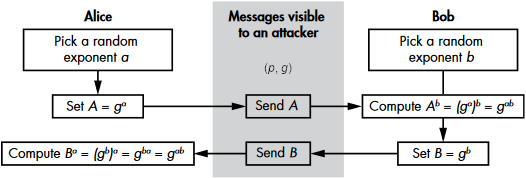
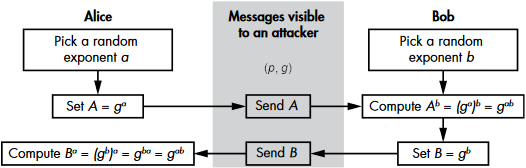
z09

diff --git a/NG/DX/11.MD b/NG/DX/11.MD
@@ -7,9 +7,9 @@
 
 Rozhodnutelnost hraje roli u algoritmů (turingových strojů), které řeší problémy typu Ano/Ne.
 
-Problém typu A/N je __totálně__ rozhodnutelný, pokud existuje takový TS, který pro libovolný vstup vždy zastaví a vydá správnou odpověď (_Ano_ nebo _Ne_).
+Problém typu Ano/Ne je __totálně__ rozhodnutelný, pokud existuje takový TS, který pro libovolný vstup vždy zastaví a vydá správnou odpověď (_Ano_ nebo _Ne_).
 
-Problém typu A/N je __parciálně__ rozhodnutelný, pokud existuje takový TS, který pro vstup s odpovědí _Ano_ zastaví a vydá patřičnou odpověď a pro vstup s odpovědí _Ne_ buď zastaví a vydá patřičnou odpověď, nebo nikdy neukončí svojí činnost.
+Problém typu Ano/Ne je __parciálně__ rozhodnutelný, pokud existuje takový TS, který pro vstup s odpovědí _Ano_ zastaví a vydá patřičnou odpověď a pro vstup s odpovědí _Ne_ buď zastaví a vydá patřičnou odpověď, nebo nikdy neukončí svojí činnost.
 
 <table><tr><td>Rozhodnutelnost\Odpověď</td><th>Ano</th><th>Ne</th></tr><tr><th>Totální</th><td><i>přijetí</i></td><td><i>zamítnutí</i></td></tr><tr><th>Parciální</th><td><i>přijetí</i></td><td><i>zamítnutí</i>&ensp;∨&ensp;<i>zacyklení</i></td></tr></table>
 
@@ -22,8 +22,8 @@ Poznámka: To, že je problém algoritmicky nerozhodnutelný, nemusí nutně zna
   * 𝑀 pro 𝑤 zastaví ⇒ 𝐴 přejde do _přijetí_
   * 𝑀 pro 𝑤 nezastaví ⇒ 𝐴 přejde buď do _zamítnutí_, nebo do _zacyklení_
 * Tvrzení 2: __Neexistuje__ takový 𝐴, který splňuje:
-  * 𝑀 pro 𝑤 zastaví ⇒ 𝐴 přejde buď do _zamítnutí_, nebo do _zacyklení_
   * 𝑀 pro 𝑤 nezastaví ⇒ 𝐴 přejde do _přijetí_
+  * 𝑀 pro 𝑤 zastaví ⇒ 𝐴 přejde buď do _zamítnutí_, nebo do _zacyklení_
 * Z tohoto pohledu je tedy problém zastavení TS parciálně rozhodnutelný a problém <b>ne</b>zastavení TS není ani parciálně rozhodnutelný.
 
 `{ Všechny problémy { Parciálně rozhodnutelné problémy { Totálně rozhodnutelné problémy } } }`

diff --git a/NG/DX/10.MD b/NG/DX/10.MD
@@ -25,7 +25,7 @@ Podmínkou kroku je, že alespoň jedna z akcí 2./3./4. musí být provedena.
 Počáteční stav TS:
 
 * Na pásce je vstupní slovo – „data pro výpočet“
-* Před a za vstupním slovem není nic – prázdná páska
+* Před a za vstupním slovem není nic – prázdná páska, prazdná políčka jsou reprezentována symbolem „□“
 * Hlava je na začátku slova
 * Automat je v počátečním stavu
 
@@ -48,7 +48,7 @@ Poté následují zmíněné kroky a ve finále konec činnosti TS:
 * TS = (𝑄, Σ, Γ, _δ_, 𝑞₀, 𝐹)
 * 𝑄 je neprázdná množina stavů
 * Σ je neprázdná vstupní abeceda
-* Γ je pásková abeceda, kdy Σ ⊂ Γ – pásková abeceda k té vstupní přidá minimálně prázdný symbol „□“
+* Γ je pásková abeceda, kdy Σ ⊂ Γ – pásková abeceda k té vstupní přidá minimálně prázdný symbol □
 * _δ_ je přechodová funkce (𝑄 ∖ 𝐹) × Γ → 𝑄 × Γ × {-1, 0, +1}
 * 𝑞₀ ∈ 𝑄 je počáteční stav
 * 𝐹 ⊂ 𝑄 je množina koncových stavů
@@ -75,11 +75,11 @@ Z hlediska výpočetní síly nepřináší v podstatě nic nového:
 * S více páskami (vstup, práce, výstup)
   * Složité instrukce
   * Lze simulovat volbou páskové abecedy, mohou to být klidně uspořádané trojice
-* NTS, který je ale převoditelný na stejně silný DTS
+* Nedeterministický TS, který je ale převoditelný na stejně silný deterministický TS
 
 #### „Univerzální“ TS
 
-* „Univerzální“ TS simuluje činnost libovolného TS
+* Univerzální TS simuluje činnost libovolného TS
 * Dostane slovo 𝑀𝑤 a simuluje činnost stroje 𝑀 pro slovo 𝑤
 * (𝑄, _δ_, 𝑞₀, 𝐹 dokážeme nějak zapsat, tedy i zakódovat v abecedě Σ)
 

diff --git a/NG/DX/09.MD b/NG/DX/09.MD
@@ -30,14 +30,14 @@ Konečný stroj se zásobníky značíme KSZ<sub>𝑛</sub>, kde 𝑛 je počet 
   * Přečíst vstupní symbol na aktuální pozici čtecí hlavy
   * Posunout čtecí hlavu na následující vstupní symbol
 * U zásobníků lze během výpočtu:
-  * Přidat libovolný symbol ze vstupní abecedy na vrchol zásobníku
+  * Přidat libovolný symbol na vrchol zásobníku
   * Přečíst symbol na vrcholu zásobníku
   * Odebrat symbol z vrcholu zásobníku
 * Výpočet je větven podle hodnot na vstupu a vrcholech zásobníků, dokud nedojde do některého ze stavů přijetí či zamítnutí
 
 ### Postův stroj (PS)
 
-Postův stroj popsal Emil Leon Post nezávisle na Alanu Turingovi. Postův stroj obsahuje obousměrně nekonečnou pásku s políčky `...,-2,-1,0,1,2,...`, kde jedno je označeno jako startovní. Každé políčko na pásce je buď prázdné, nebo označené. Stav políček (konečný výčet označených políček) znamená na začátku výpočtu vstupní data a na konci výpočtu výsledek. S páskou pracuje čtecí-zapisovací hlava, která může v každém kroku výpočtu provést jednu z těchto instrukcí:
+Postův stroj popsal Emil Leon Post nezávisle na Alanu Turingovi. Postův stroj obsahuje obousměrně nekonečnou pásku s políčky, kde jedno je označeno jako startovní. Každé políčko na pásce je buď prázdné, nebo označené. Stav políček (konečný výčet označených políček) znamená na začátku výpočtu vstupní data a na konci výpočtu výsledek. S páskou pracuje čtecí-zapisovací hlava, která může v každém kroku výpočtu provést jednu z těchto instrukcí:
 
 * (a) Označí prázdné políčko
 * (b) Vyprázdní označené políčko

diff --git a/NG/DX/14.MD b/NG/DX/14.MD
@@ -3,7 +3,7 @@
 [<<<](./13.MD)
 > Standardní uzávěrové vlastnosti na třídě regulárních jazyků, jejich využití.
 
-Pro základní přehled _Jazyk, Gramatika, Automat_ viz [12](./12.MD).
+Pro základní přehled _Jazyk, Gramatika, Automat_ viz otázka [12](./12.MD).
 
 ## Uzávěrové vlastnosti na třídě regulárních jazyků
 
@@ -46,14 +46,14 @@ Konečný automat rozpoznává právě regulární jazyky, pokud dokážeme sest
   * Strom rozvíjíme, dokud to jde
 * Jakmile máme hotový strom:
   * Uzly stromu jsou stavy (𝐴 ∪ 𝐵), hrany stromu definují přechody mezi nimi
-  * Vstupní (startovní) stav je kořen
-  * Pokud množina uzlu obsahuje alespoň jeden původní výstupní stav, pak je stav, který množina reprezentuje, označen za výstupní (koncový)
+  * Vstupní (startovní) stav je kořen stromu
+  * Pokud množina nějakého uzlu obsahuje alespoň jeden původní výstupní stav, pak je stav, který množina reprezentuje, označen za výstupní (koncový)
   * Pokud máme uzel s prázdnou množinou `{}`, pak se jedná o stav, ze kterého vede přechod do sebe sama reagující na všechny vstupní symboly
 * Výsledný automat rozpoznává slova z jazyků 𝐿 a 𝐾 (nezáleží, z jakého jazyka slovo je, nebo zdali se nachází v obou jazycích)
 
 #### Průnik 𝐴 ∩ 𝐵
 
-* Stejné jako sjednocení, ale výstupní stavy jsou pouze ty, kde jsou všechny původní stavy v množině uzlu výstupní
+* Stejné jako sjednocení, ale výstupní stavy jsou pouze ty, kde jsou všechny původní stavy v množině daného uzlu výstupní
 * Výsledný automat rozpoznává slova, která patří do jazyka 𝐿 a zároveň do jazyka 𝐾
 
 #### Doplněk 𝐴<sup>𝐶</sup>

diff --git a/NG/DX/13.MD b/NG/DX/13.MD
@@ -3,7 +3,7 @@
 [<<<](./12.MD)
 > Regulární výrazy a rovnice, jejich význam a způsoby řešení.
 
-Pro základní přehled _Jazyk, Gramatika, Automat_ viz [12](./12.MD).
+Pro základní přehled _Jazyk, Gramatika, Automat_ viz otázka [12](./12.MD).
 
 ## Regulární výraz (RV)
 
@@ -69,8 +69,8 @@ Píšeme 𝐿 = [α] a říkáme, že „Regulární výraz α reprezentuje regu
   * (𝑅 + 𝑆)𝑇 = 𝑅𝑇 + 𝑆𝑇
 * Iterace:
   * 𝑅* = { 𝑅<sup>𝑛</sup> ⁞ 𝑛 ≥ 0 }
-  * 𝑅<sup>0</sup> = _ε_
-  * 𝑅<sup>𝑛+1</sup> = 𝑅<sup>𝑛</sup>𝑅
+    * 𝑅<sup>0</sup> = _ε_
+    * 𝑅<sup>𝑛+1</sup> = 𝑅<sup>𝑛</sup>𝑅
   * 𝑅𝑅\* = 𝑅\*𝑅
   * 𝑅\* = 𝑅\*𝑅\* = (𝑅\*)\* = (_ε_ + 𝑅)\*
   * ∅\* = _ε_\* = _ε_

diff --git a/NG/DX/15.MD b/NG/DX/15.MD
@@ -3,7 +3,7 @@
 [<<<](./14.MD)
 > Chomského hierarchie gramatik a jazyků, význam, návrh gramatiky pro jednoduchý konečný automat.
 
-Pro základní přehled _Jazyk, Gramatika, Automat_ viz [12](./12.MD).
+Pro základní přehled _Jazyk, Gramatika, Automat_ viz otázka [12](./12.MD).
 
 ## Gramatika
 
